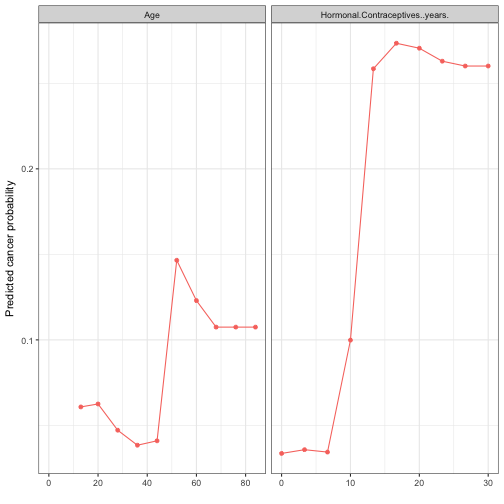
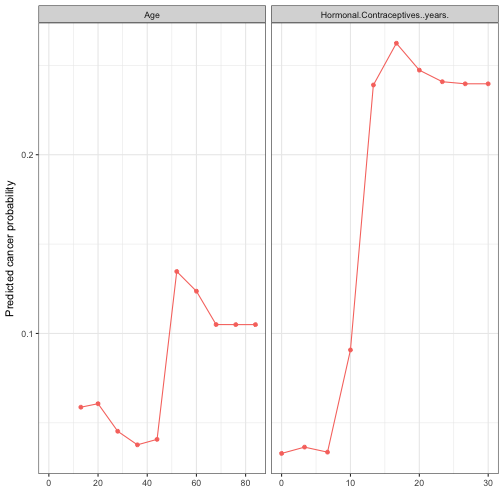
leanpub-tests

diff --git a/manuscript/03-datasets.md b/manuscript/03-datasets.md
@@ -30,21 +30,23 @@ Here is the list of features that were used:
 - windspeed: Wind speed in km per hour.
 - cnt: Count of total rental bikes including both casual and registered. The count was used as the target in the regression tasks.
 
-You can look at a sample of days here:
+You can look at one day here:
 
 
-|    |season |yr   |mnth |holiday    |weekday |workingday  |weathersit |      temp|     hum| windspeed|  cnt| days_since_2011|
-|:---|:------|:----|:----|:----------|:-------|:-----------|:----------|---------:|-------:|---------:|----:|---------------:|
-|669 |WINTER |2012 |OKT  |NO HOLIDAY |TUE     |WORKING DAY |MISTY      |  6.954554| 82.5455| 14.271603| 1096|             668|
-|685 |WINTER |2012 |NOV  |NO HOLIDAY |THU     |WORKING DAY |MISTY      |  7.118349| 62.0417| 10.250129| 5445|             684|
-|209 |FALL   |2011 |JUL  |NO HOLIDAY |THU     |WORKING DAY |GOOD       | 28.620849| 58.3333| 11.958093| 4390|             208|
-|605 |FALL   |2012 |AUG  |NO HOLIDAY |MON     |WORKING DAY |GOOD       | 25.056651| 73.0417|  8.625111| 6917|             604|
-|467 |SUMMER |2012 |APR  |NO HOLIDAY |WED     |WORKING DAY |GOOD       |  8.388712| 46.9565| 19.783358| 4862|             466|
-|377 |SPRING |2012 |JAN  |NO HOLIDAY |THU     |WORKING DAY |MISTY      |  9.977500| 80.2917| 12.124789| 4097|             376|
-|535 |SUMMER |2012 |JUN  |NO HOLIDAY |MON     |WORKING DAY |MISTY      | 18.711651| 77.7917| 11.707982| 5099|             534|
-|98  |SUMMER |2011 |APR  |NO HOLIDAY |FRI     |WORKING DAY |MISTY      |  7.784151| 83.6250| 15.208464| 1471|              97|
-|476 |SUMMER |2012 |APR  |NO HOLIDAY |FRI     |WORKING DAY |GOOD       | 16.753349| 69.4583| 10.041357| 7290|             475|
-|510 |SUMMER |2012 |MAY  |NO HOLIDAY |THU     |WORKING DAY |GOOD       | 22.785000| 71.6667| 11.584032| 6770|             509|
+|                |            |
+|:---------------|:-----------|
+|season          |WINTER      |
+|yr              |2012        |
+|mnth            |OKT         |
+|holiday         |NO HOLIDAY  |
+|weekday         |TUE         |
+|workingday      |WORKING DAY |
+|weathersit      |MISTY       |
+|temp            |6.954554    |
+|hum             |82.5455     |
+|windspeed       |14.2716     |
+|cnt             |1096        |
+|days_since_2011 |668         |
 
 ## YouTube Spam Comments (Text Classification) {#spam-data}
 As an example for text classification we will be using 1956 comments from 5 different YouTube videos.
@@ -84,40 +86,47 @@ The cervical cancer dataset contains indicators and risk factors for predicting 
 The features contain demographics (e.g. age), habits, and medical history.
 The data can be downloaded from the [UCI Machine Learning repository](https://archive.ics.uci.edu/ml/datasets/Cervical+cancer+%28Risk+Factors%29) and is described by @fernandes2017transfer.
 
-The subset of features, which are used in this book are:
+The subset of features, which are used in the examples are:
 
-- (int) Age
-- (int) Number of sexual partners
-- (int) First sexual intercourse (age)
-- (int) Num of pregnancies
-- (bool) Smokes yes (1) or no (1)
-- (int) Smokes (years)
-- (bool) Hormonal Contraceptives yes (1) or no (0)
-- (int) Hormonal Contraceptives (years)
-- (bool) IUD: Intrauterine device yes (1) or no (1)
-- (int) IUD (years): Number of years with an intrauterine device
-- (bool) STDs: Ever had a sexually transmitted disease? Yes (1) or no (0)
-- (int) STDs (number): Number of sexually transmitted diseases.
-- (int) STDs: Number of diagnosis
-- (int) STDs: Time since first diagnosis
-- (int) STDs: Time since last diagnosis
-- (bool) Biopsy: Biopsy results "Healthy" or "Cancer". Target outcome.
+- Age in years
+- Number of sexual partners
+- First sexual intercourse (age in years)
+- Number of pregnancies
+- Smokes yes (1) or no (1)
+- Smokes (years)
+- Hormonal Contraceptives yes (1) or no (0)
+- Hormonal Contraceptives (years)
+- IUD: Intrauterine device yes (1) or no (1)
+- IUD (years): Number of years with an intrauterine device
+- STDs: Ever had a sexually transmitted disease? Yes (1) or no (0)
+- STDs (number): Number of sexually transmitted diseases.
+- STDs: Number of diagnosis
+- STDs: Time since first diagnosis
+- STDs: Time since last diagnosis
+- Biopsy: Biopsy results "Healthy" or "Cancer". Target outcome.
 
 As the biopsy serves as the gold standard for diagnosing cervical cancer, the classification task in this book used the biopsy outcome as the target.
 Missing values for each column were imputed by the mode (most frequent value), which is probably a bad solution, because the value of the answer might be correlated with the probability for a value being missing.
 There is probably a bias, because the questions are of a very private nature.
 But this is not a book about missing data imputation, so the mode imputation will suffice!
 
+The data of one of the women in the dataset:
 
-| Age| Number.of.sexual.partners| First.sexual.intercourse| Num.of.pregnancies| Smokes| Smokes..years.| Hormonal.Contraceptives| Hormonal.Contraceptives..years.| IUD| IUD..years.| STDs| STDs..number.| STDs..Number.of.diagnosis| STDs..Time.since.first.diagnosis| STDs..Time.since.last.diagnosis|Biopsy  |
-|---:|-------------------------:|------------------------:|------------------:|------:|--------------:|-----------------------:|-------------------------------:|---:|-----------:|----:|-------------:|-------------------------:|--------------------------------:|-------------------------------:|:-------|
-|  18|                         4|                       15|                  1|      0|       0.000000|                       0|                               0|   0|           0|    0|             0|                         0|                                1|                               1|Healthy |
-|  15|                         1|                       14|                  1|      0|       0.000000|                       0|                               0|   0|           0|    0|             0|                         0|                                1|                               1|Healthy |
-|  34|                         1|                       15|                  1|      0|       0.000000|                       0|                               0|   0|           0|    0|             0|                         0|                                1|                               1|Healthy |
-|  52|                         5|                       16|                  4|      1|      37.000000|                       1|                               3|   0|           0|    0|             0|                         0|                                1|                               1|Healthy |
-|  46|                         3|                       21|                  4|      0|       0.000000|                       1|                              15|   0|           0|    0|             0|                         0|                                1|                               1|Healthy |
-|  42|                         3|                       23|                  2|      0|       0.000000|                       0|                               0|   0|           0|    0|             0|                         0|                                1|                               1|Healthy |
-|  51|                         3|                       17|                  6|      1|      34.000000|                       0|                               0|   1|           7|    0|             0|                         0|                                1|                               1|Cancer  |
-|  26|                         1|                       26|                  3|      0|       0.000000|                       1|                               2|   1|           7|    0|             0|                         0|                                1|                               1|Healthy |
-|  45|                         1|                       20|                  5|      0|       0.000000|                       0|                               0|   0|           0|    0|             0|                         0|                                1|                               1|Healthy |
-|  44|                         3|                       15|                  1|      1|       1.266973|                       0|                               0|   0|           0|    0|             0|                         0|                                1|                               1|Healthy |
+|                                 |        |
+|:--------------------------------|:-------|
+|Age                              |44      |
+|Number.of.sexual.partners        |3       |
+|First.sexual.intercourse         |26      |
+|Num.of.pregnancies               |4       |
+|Smokes                           |0       |
+|Smokes..years.                   |0       |
+|Hormonal.Contraceptives          |1       |
+|Hormonal.Contraceptives..years.  |2       |
+|IUD                              |0       |
+|IUD..years.                      |0       |
+|STDs                             |0       |
+|STDs..number.                    |0       |
+|STDs..Number.of.diagnosis        |0       |
+|STDs..Time.since.first.diagnosis |1       |
+|STDs..Time.since.last.diagnosis  |1       |
+|Biopsy                           |Healthy |

diff --git a/manuscript/05.6-agnostic-shapley.md b/manuscript/05.6-agnostic-shapley.md
@@ -97,25 +97,25 @@ Figure \@ref(fig:shapley-cervical-plot) visualizes the Shapley values, that are 
 |STDs..Time.since.first.diagnosis |  1.00|
 |STDs..Time.since.last.diagnosis  |  1.00|
 
-![Feature value contributions for woman 326 in the cervical cancer dataset. With a prediction of 0.53, this woman's cancer probability is 0.51 above the average prediction of 0.02. The feature value that increased the probability the most is the number of diagnosed STDs. The feature contributions sum up to the difference of actual and average prediction (0.51).](images/shapley-cervical-plot-1.png)
+![Feature value contributions for woman 326 in the cervical cancer dataset. With a prediction of 0.47, this woman's cancer probability is 0.44 above the average prediction of 0.03. The feature value that increased the probability the most is the number of diagnosed STDs. The feature contributions sum up to the difference of actual and average prediction (0.44).](images/shapley-cervical-plot-1.png)
 
 |feature                          |        phi|
 |:--------------------------------|----------:|
-|Age                              |  0.0480000|
-|First.sexual.intercourse         |  0.0626667|
-|Hormonal.Contraceptives          | -0.0023333|
-|Hormonal.Contraceptives..years.  |  0.0433333|
-|IUD                              |  0.0013333|
-|IUD..years.                      | -0.0020000|
-|Num.of.pregnancies               |  0.0496667|
-|Number.of.sexual.partners        |  0.0490000|
-|STDs                             |  0.0910000|
-|STDs..Number.of.diagnosis        |  0.0690000|
-|STDs..Time.since.first.diagnosis |  0.0030000|
-|STDs..Time.since.last.diagnosis  |  0.0030000|
-|STDs..number.                    |  0.1013333|
-|Smokes                           |  0.0030000|
-|Smokes..years.                   |  0.0010000|
+|Age                              |  0.0443333|
+|First.sexual.intercourse         |  0.0696667|
+|Hormonal.Contraceptives          |  0.0143333|
+|Hormonal.Contraceptives..years.  |  0.0260000|
+|IUD                              | -0.0006667|
+|IUD..years.                      | -0.0033333|
+|Num.of.pregnancies               |  0.0253333|
+|Number.of.sexual.partners        |  0.0503333|
+|STDs                             |  0.0970000|
+|STDs..Number.of.diagnosis        |  0.0480000|
+|STDs..Time.since.first.diagnosis |  0.0023333|
+|STDs..Time.since.last.diagnosis  |  0.0070000|
+|STDs..number.                    |  0.0440000|
+|Smokes                           | -0.0006667|
+|Smokes..years.                   | -0.0020000|
 
 
 
@@ -142,22 +142,22 @@ Figure \@ref(fig:shapley-bike-plot) shows the explanations created for the  Rand
 |windspeed       |16.62605        |
 |days_since_2011 |284             |
 
-![Feature value contributions for instance 285. With a predicted 2415 rented bikes, this day is -2097 below the average prediction of 4511. The feature values that had the most negative effects were the weather situation, humidity and the time trend (years since 2011). The temperature on that day had a positive effect compared to the average prediction. The feature contributions sum up to the difference of actual and average prediction (-2097).](images/shapley-bike-plot-1.png)
+![Feature value contributions for instance 285. With a predicted 2633 rented bikes, this day is -1875 below the average prediction of 4508. The feature values that had the most negative effects were the weather situation, humidity and the time trend (years since 2011). The temperature on that day had a positive effect compared to the average prediction. The feature contributions sum up to the difference of actual and average prediction (-1875).](images/shapley-bike-plot-1.png)
 
 
-|feature         |     phi|
-|:---------------|-------:|
-|days_since_2011 | -216.96|
-|holiday         |    7.96|
-|hum             | -850.89|
-|mnth            |   82.52|
-|season          |   16.92|
-|temp            |  426.69|
-|weathersit      | -862.61|
-|weekday         |  -42.23|
-|windspeed       |  -45.67|
-|workingday      |   -2.38|
-|yr              | -252.30|
+|feature         |      phi|
+|:---------------|--------:|
+|days_since_2011 |  -661.50|
+|holiday         |     1.80|
+|hum             | -1141.60|
+|mnth            |   -20.31|
+|season          |    41.33|
+|temp            |   444.37|
+|weathersit      |  -591.74|
+|weekday         |   -21.97|
+|windspeed       |   -36.79|
+|workingday      |     2.20|
+|yr              |   -59.18|
 
 Be careful to interpret the Shapley value correctly:
 The Shapley value is the average contribution of a feature value towards the prediction in different coalitions.

diff --git a/manuscript/05.4-agnostic-permfeatimp.md b/manuscript/05.4-agnostic-permfeatimp.md
@@ -50,10 +50,10 @@ Features that are associated model error increase by a factor of 1 (= no change)
 |STDs                             |              0.43|       1.28|
 |Hormonal.Contraceptives..years.  |              0.39|       1.16|
 |Age                              |              0.38|       1.11|
-|First.sexual.intercourse         |              0.35|       1.02|
+|First.sexual.intercourse         |              0.35|       1.03|
 |Smokes..years.                   |              0.34|       1.01|
+|IUD..years.                      |              0.34|       1.01|
 |Number.of.sexual.partners        |              0.34|       1.00|
-|IUD..years.                      |              0.34|       1.00|
 |Hormonal.Contraceptives          |              0.34|       1.00|
 |IUD                              |              0.34|       1.00|
 |Num.of.pregnancies               |              0.34|       1.00|
@@ -77,17 +77,17 @@ Figure \@ref(fig:importance-bike) and Table \@ref(tab:importance-bike-table) sho
 
 |feature         | permutation.error| importance|
 |:---------------|-----------------:|----------:|
-|days_since_2011 |             899.6|        4.3|
-|temp            |             765.2|        3.6|
-|yr              |             517.6|        2.5|
-|mnth            |             444.5|        2.1|
-|hum             |             392.4|        1.9|
-|season          |             383.9|        1.8|
-|weathersit      |             331.0|        1.6|
-|windspeed       |             306.6|        1.5|
-|weekday         |             302.6|        1.4|
-|workingday      |             235.2|        1.1|
-|holiday         |             214.6|        1.0|
+|days_since_2011 |             912.9|        4.3|
+|temp            |             775.9|        3.7|
+|yr              |             506.1|        2.4|
+|mnth            |             441.8|        2.1|
+|hum             |             397.0|        1.9|
+|season          |             386.2|        1.8|
+|weathersit      |             328.6|        1.6|
+|windspeed       |             309.9|        1.5|
+|weekday         |             308.3|        1.5|
+|workingday      |             241.1|        1.1|
+|holiday         |             216.4|        1.0|
 
 A positive aspect of using the error ratio instead of the error difference is that the feature importance measurements are comparable across different problems. 
 You can see that the importance of the most important features in the bike rental prediction task is 2 to 3 times higher than in the cervical cancer prediction task. 

diff --git a/manuscript/04.5-interpretable-rulefit.md b/manuscript/04.5-interpretable-rulefit.md
@@ -44,21 +44,21 @@ If {$$}x_j{/$$} increases by one unit, the predicted outcome changes by {$$}\bet
 
 In this example, we use RuleFit to predict the number of [bike rentals](#bike-data) on a given day.
 The rules generated for the bike rental prediction task can be seen in Figure \@ref(fig:rulefit-example).
-The most important rule was: "days_since_2011 > 111 & weathersit %in% c("GOOD", "MISTY")" and the associated weight is 778.2.
+The most important rule was: "weathersit %in% c("GOOD", "MISTY") & temp > 9.86" and the associated weight is 542.3.
 The interpretation is:
-If days_since_2011 > 111 & weathersit %in% c("GOOD", "MISTY"), then the predicted number of bike rentals increases by 778.2, given all other features values stay fixed.
+If weathersit %in% c("GOOD", "MISTY") & temp > 9.86, then the predicted number of bike rentals increases by 542.3, given all other features values stay fixed.
 In total,  349 such rules were created from the original 8 features.
 Quite a lot!
-But thanks to Lasso, only 41 of the 349 got a weight different from zero.
+But thanks to Lasso, only 47 of the 349 got a weight different from zero.
 
 
 |Description                                                | Weight| Importance|
 |:----------------------------------------------------------|------:|----------:|
-|days_since_2011 > 111 & weathersit %in% c("GOOD", "MISTY") |    778|        297|
-|days_since_2011 > 429 & temp > 5.081651                    |    732|        358|
-|temp > 16.0875 & days_since_2011 > 567                     |    541|        175|
-|temp > 6.958267 & weathersit %in% c("GOOD", "MISTY")       |    429|        181|
-|temp > 11.544151 & days_since_2011 > 440                   |    406|        186|
+|weathersit %in% c("GOOD", "MISTY") & temp > 9.86           |    542|        258|
+|days_since_2011 > 108 & weathersit %in% c("GOOD", "MISTY") |    422|        160|
+|temp <= 15.6175 & temp <= 4.024151                         |   -384|        113|
+|days_since_2011 > 429 & temp > 4.494151                    |    372|        182|
+|days_since_2011 > 434 & temp > 15.6175                     |    343|        149|
 
 Computing the global feature importances reveals that temperature and the time trend are the most important features, see Figure \@ref(fig:rulefit-importance).
 The feature importance measurement includes the importance of the raw feature term and all the decision rules the feature appears in.

diff --git a/manuscript/01-introduction.md b/manuscript/01-introduction.md
@@ -2,5 +2,24 @@
 
 # Introduction {#intro}
 
-![Guy on a pile of data explaining how math and data have to be stirred in a machine learning system until the right answers show up. Credits: xkcd.com](images/machine-learning-xkcd.png)
+This book will teach you how to make (supervised) machine learning models interpretable.
+It contains one or the other mathematical formula, but it's kept at a manageable level of math.
+This book is not for people who are trying to learn machine learning from scratch.
+If you are new to machine learning, there are loads of books and other resources for learning the basics.
+I recommend the book [Elements of Statistical Learning](https://web.stanford.edu/~hastie/ElemStatLearn/) from @Hastie2009 and [Andrew Ng's "Machine Learning" online course on coursera](https://www.coursera.org/learn/machine-learning) to get started with machine learning.
+Both the book and the course are available for free!
+  
+This book starts with some [short stories](#storytime), which are not required to understand the book, but hopefully entertaining!
+Then the book explores the concepts of [machine learning interpretability](#interpretability):
+It reveals when interpretability is important and discusses different types of explanations.
+Definitions used throughout the book can be [looked up](#definitions).
+All models and methods are explained and demonstrated with real data examples [described here](#data).
+One way to make machine learning interpretable is by using [interpretable models](#simple), like linear models or decision trees.
+The other option is to use [model-agnostic interpretability methods](#agnostic).
+The model-agnostic chapter covers methods like partial dependence plots and permutation feature importance.
+Model-agnostic methods work by changing the input of the machine learning model and measuring changes in the output.
+
+You can either read the book from start to end or directly jump to the methods you are interested in.
+I hope you will enjoy the read!
+
 

diff --git a/manuscript/04.2-interpretable-linear.md b/manuscript/04.2-interpretable-linear.md
@@ -130,7 +130,7 @@ Different visualisations make the linear model outcomes easy and quick to grasp 
 The information of the weights table (weight estimates and variance) can be visualised.
 Figure \@ref(fig:linear-weights-plot) shows a weight plot of the linear model fitted before.
 
-![Each row in the plot represents one feature weight. The weights are displayed as points and the 95\% confidence intervals with a line around the points. A 95\% confidence interval means that if the linear model would be estimated 100 times on similar data, in 95 out of 100 times, the confidence interval would cover the true weight, under the linear model assumptions (linearity, normality, homoscedasticity, independence, fixed features, absence of multicollinearity).](images/linear-weights-plot-1.png)
+![Each row in the plot represents one feature weight. The weights are displayed as points and the 95% confidence intervals with a line around the points. A 95% confidence interval means that if the linear model would be estimated 100 times on similar data, in 95 out of 100 times, the confidence interval would cover the true weight, under the linear model assumptions (linearity, normality, homoscedasticity, independence, fixed features, absence of multicollinearity).](images/linear-weights-plot-1.png)
 Figure \@ref(fig:linear-weights-plot) makes clear that rainy/snowy/stormy weather has a strong negative effect on the expected number of bikes.
 The working day feature's weight is close to zero and the zero is included in the 95% interval, meaning it is not influencing the prediction significantly.
 Some confidence intervals are very short and the estimates are close to zero, yet the features were important.

diff --git a/manuscript/index.md b/manuscript/index.md
@@ -2,7 +2,7 @@
 title: "Interpretable Machine Learning"
 subtitle: "A Guide for Making Black Box Models Explainable."
 author: "Christoph Molnar"
-date: "2018-03-24"
+date: "2018-03-26"
 knit: "bookdown::render_book"
 documentclass: krantz
 biblio-style: apalike
